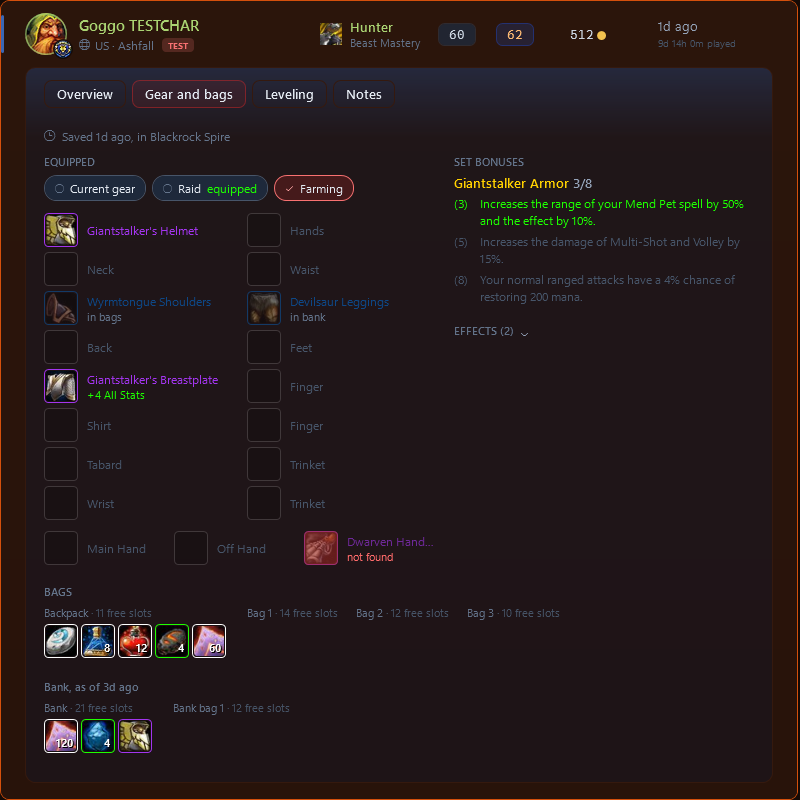
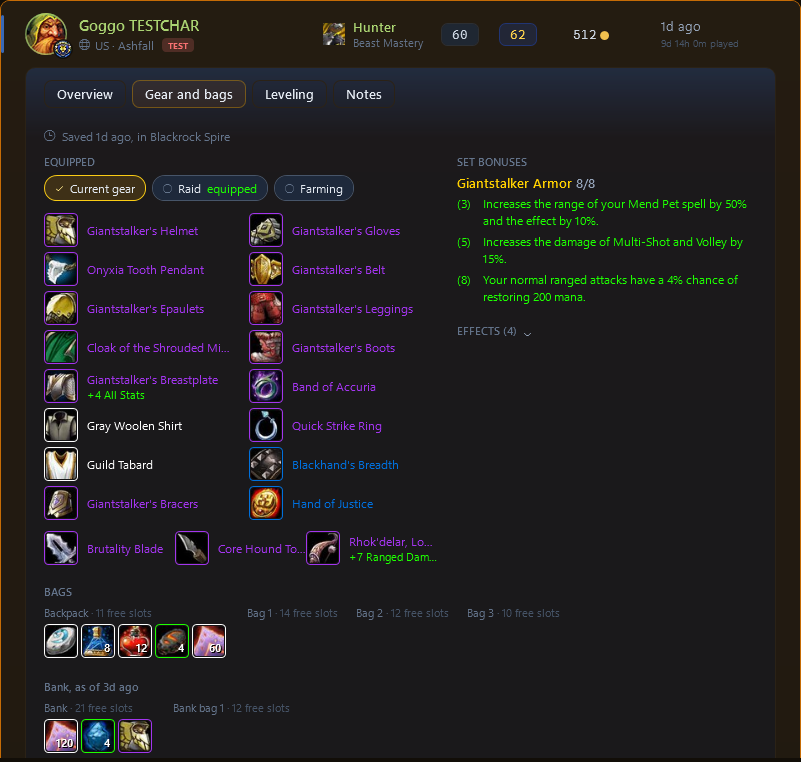
build(companion): leave more unused runtime parts out of the exe
Async LINQ, XML/CMS signature crypto (only signed XPS packages need it)
and the event log message texts: ~3 MB unpacked, ~1 MB off the exe.
Every page still renders in screenshot mode.

Also give the test hunter Goggo a full set of gear and reshoot the
README's gear picture on current gear.

diff --git a/companion/WoWCharacterTracker/Models/TestCharacters.cs b/companion/WoWCharacterTracker/Models/TestCharacters.cs
@@ -99,13 +99,16 @@ static class TestCharacters
         {
             Carrying(zeb, "1~7719,3~7718,5~6125,7~6087,8~7351,16~7717", "6948~1,2589~20,4306~32,2772~14,3575~8,929~5,4599~12,159~20", "4306~40,2772~20,7718~1,6125~1", now),
             Carrying(fagel, "7~10410,1~6505,16~1238", "6948~1,2589~11,2452~14,785~22,118~6,159~10", "", 0),
-            Carrying(goggo, "1~16846,3~16848,5~16845,18~18713", "6948~1,13444~8,13446~12,12662~4,14047~60", "14047~120,12809~4,16846~1", now - 3 * 86400) with
+            // Every slot filled (the README's gear picture): the full Giantstalker set plus Molten Core and Blackrock pieces.
+            Carrying(goggo, "1~16846,2~18404,3~16848,4~2587,5~16845,6~16851,7~16847,8~16849,9~16850,10~16852,11~17063,12~18821,13~13965,14~11815,15~17102,16~18832,17~18805,18~18713,19~5976",
+                "6948~1,13444~8,13446~12,12662~4,14047~60", "14047~120,12809~4,16846~1", now - 3 * 86400) with
             {
-                // As the addon saves them (Inventory.lua scanGearEffects), for the gear tab's side column.
-                Sets = Inventory.ParseSets("Giantstalker Armor~3~8~3~Increases the range of your Mend Pet spell by 50% and the effect by 10%.\n"
-                    + "Giantstalker Armor~3~8~5~Increases the damage of Multi-Shot and Volley by 15%.\n"
-                    + "Giantstalker Armor~3~8~8~Your normal ranged attacks have a 4% chance of restoring 200 mana."),
-                Effects = Inventory.ParseEffects("1~16846~Equip: Improves your chance to hit by 1%.\n5~16845~Equip: Improves your chance to get a critical strike by 1%."),
+                // As the addon saves them (Inventory.lua scanGearEffects), for the gear tab's side column; the game drops "(N)" from active bonuses.
+                Sets = Inventory.ParseSets("Giantstalker Armor~8~8~0~Increases the range of your Mend Pet spell by 50% and the effect by 10%.\n"
+                    + "Giantstalker Armor~8~8~0~Increases the damage of Multi-Shot and Volley by 15%.\n"
+                    + "Giantstalker Armor~8~8~0~Your normal ranged attacks have a 4% chance of restoring 200 mana."),
+                Effects = Inventory.ParseEffects("1~16846~Equip: Improves your chance to hit by 1%.\n5~16845~Equip: Improves your chance to get a critical strike by 1%.\n"
+                    + "13~13965~Equip: Improves your chance to get a critical strike by 2%.\n14~11815~Equip: 2% chance on melee hit to gain 1 extra attack."),
                 Enchants = Inventory.ParseEnchants("5~16845~+4 All Stats~1891\n18~18713~+7 Ranged Damage~664"),
                 // Equipment Manager sets (Inventory.lua scanEquipSets): one worn, one with pieces put away or lost.
                 EquipmentSets = Inventory.ParseEquipmentSets("132329~1~1:16846:equipped,3:16848:equipped,5:16845:equipped,18:18713:equipped,4:0:ignored~Raid\n"

diff --git a/CHANGELOG.md b/CHANGELOG.md
@@ -12,6 +12,7 @@ Mythic+ runs on Retail. Update the addon with the app (it does this by itself) a
 - The mouse wheel over a character's highlights scrolls the page again (a short list used to swallow it). The same goes for every list inside a page.
 - When a post should have had a screenshot but the game took none (the box was ticked after your last /reload, and the game only reads those settings then), the console now says so instead of posting quietly without it.
 - End boss kills are no longer recorded on Retail. The list is Classic's dungeons and raids, so there it only ever caught old raids soloed for transmog. Forever keeps them as before.
+- The app is 1 MB smaller: a few more .NET parts it never uses are left out.
 
 ## v0.27.2
 
